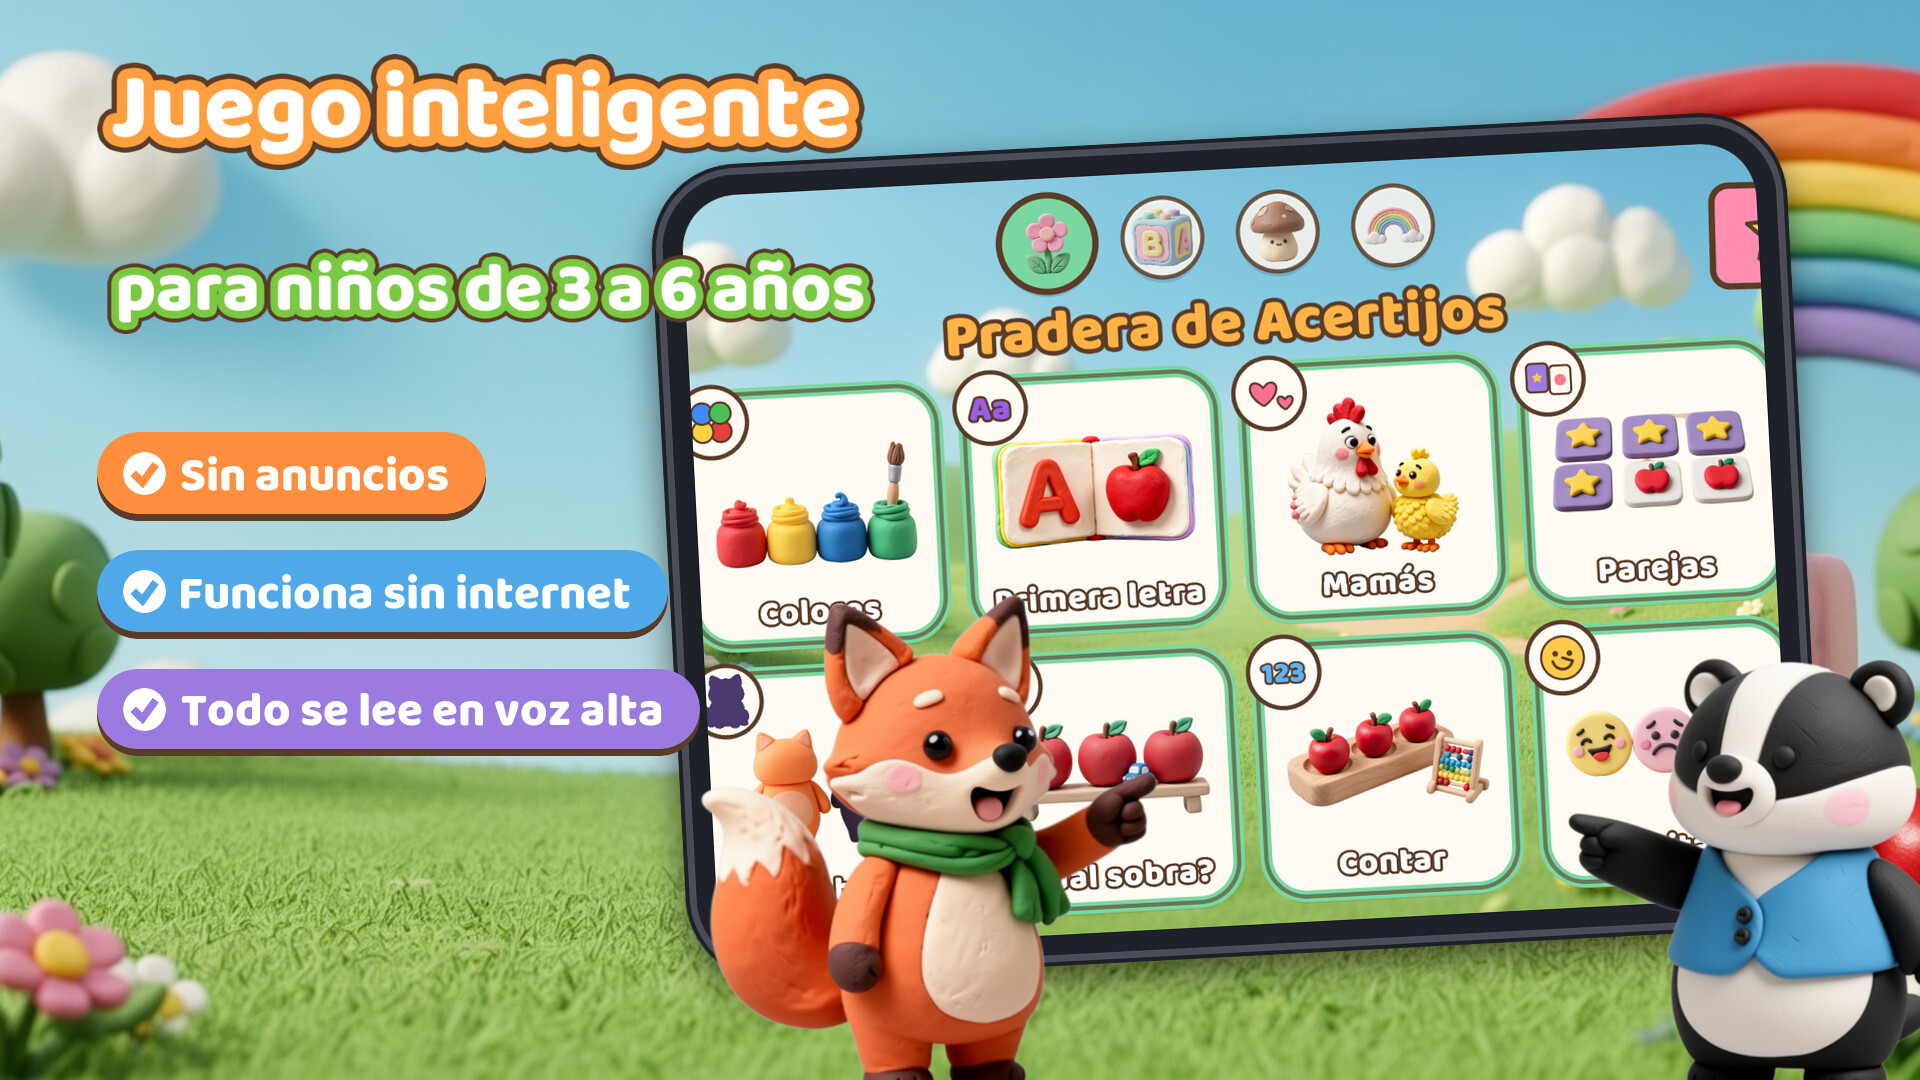
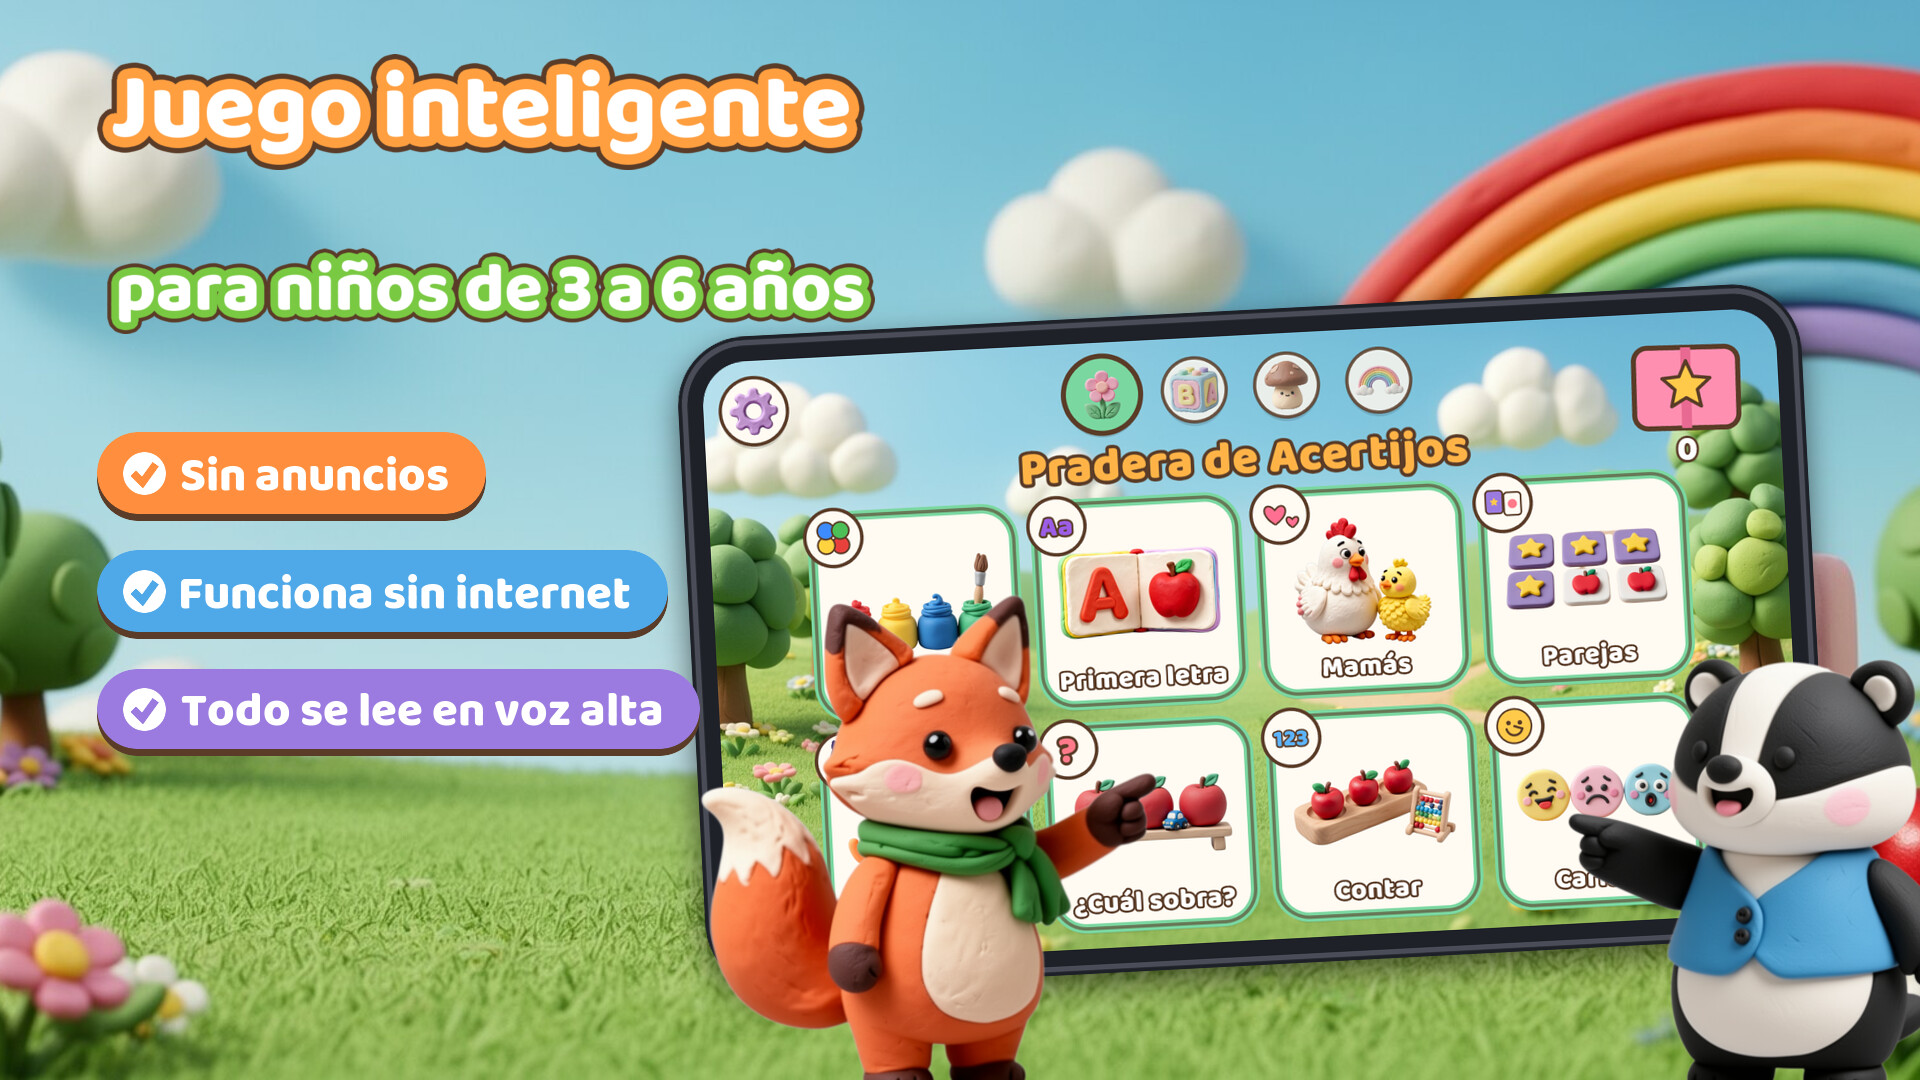
Bystrzakowo: karty na tablety z Androidem (zrzuty 16:10, karty 2560×1440, 4 języki); okładka bez przycinania mapy na węższych ekranach

diff --git a/docs/bystrzakowo-wydanie.md b/docs/bystrzakowo-wydanie.md
@@ -11,7 +11,7 @@ Wzór: wydanie Gluta (`docs/release.md`).
 | Android: klucz uploadu | `~/.funfactory-keys/bystrzakowo-upload.jks` + `.properties` **(zrób kopię zapasową, tak jak dla Gluta!)** |
 | iOS: archiwum 1.0.0 (build 1) | `release/bystrzakowo/Bystrzakowo.xcarchive` |
 | Ikona 1024 i 512 | `games/bystrzakowo/store/icon-*.png` |
-| Zrzuty do sklepów: iPhone 6,9", iPad 13", Android, w 4 językach | `games/bystrzakowo/store/screens/<rozmiar>-<język>/1..8.jpg` |
+| Zrzuty do sklepów: iPhone 6,9", iPad 13", telefon i tablet z Androidem, w 4 językach (8 kart: okładka, 4 krainy, litery, zagadki, wykres, rozwój, twórcza zabawa, „dziecko gra samo”) | `games/bystrzakowo/store/screens/<rozmiar>-<język>/1..8.jpg` (`tools/store/bystrzakowo-shots.sh`, potem `bystrzakowo-cards.sh`) |
 | Grafika Google Play 1024×500 | `games/bystrzakowo/store/feature-graphic-<język>.png` |
 | Teksty kart (pl, en, de, es), kategorie, ocena wiekowa, prywatność, notatki dla recenzji | `games/bystrzakowo/store/listing.md` |
 | Zakup w aplikacji | `docs/bystrzakowo-zakupy.md` (produkt `bystrzakowo.full`, 24,99 zł) |
@@ -39,6 +39,7 @@ Play Console → Utwórz aplikację: nazwa `Bystrzakowo: zagadki malucha`, aplik
 - Konto jest firmowe (DUNS), więc **nie obowiązuje** wymóg 12 testerów przez 14 dni.
 - Zawartość aplikacji: grupa docelowa **0–5 i 6–8 lat** (program „Rodzina”), reklamy: nie, bezpieczeństwo danych: brak zbierania danych, polityka prywatności: adres z kroku 1, ocena IARC (Everyone / PEGI 3).
 - Kategoria: Edukacja. Karta sklepu w 4 językach z `listing.md`, grafiki z `store/`.
+- Zrzuty: telefon (`android-*`, 1920×1080), tablet 7″ i 10″ (`android-tablet-*`, 2560×1440, ten sam zestaw do obu pól).
 - Produkty w aplikacji → `bystrzakowo.full` (`docs/bystrzakowo-zakupy.md`).
 - Wydanie: najpierw test wewnętrzny z AAB (sprawdzisz zakup na koncie testowym), potem produkcja.
 
